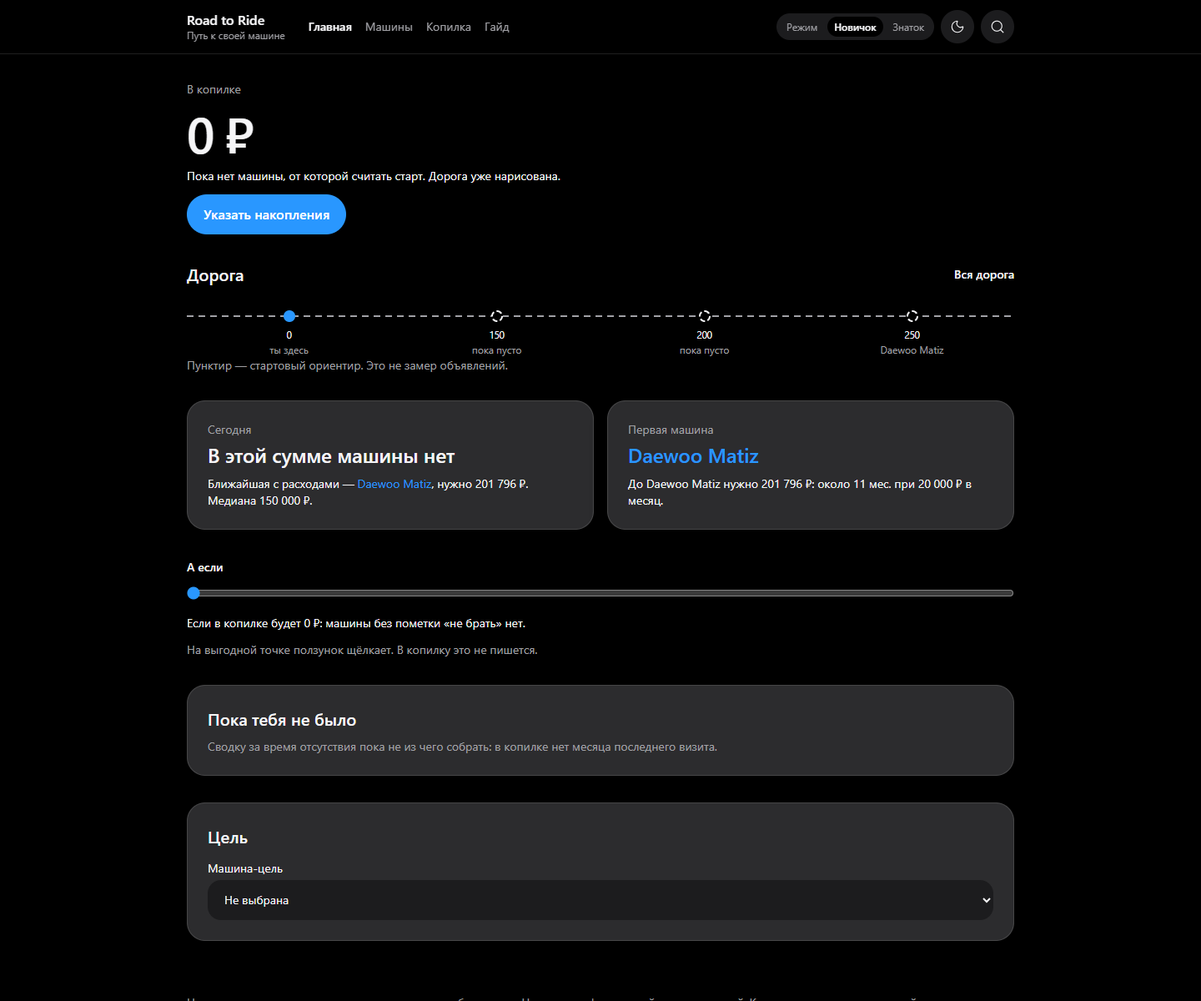
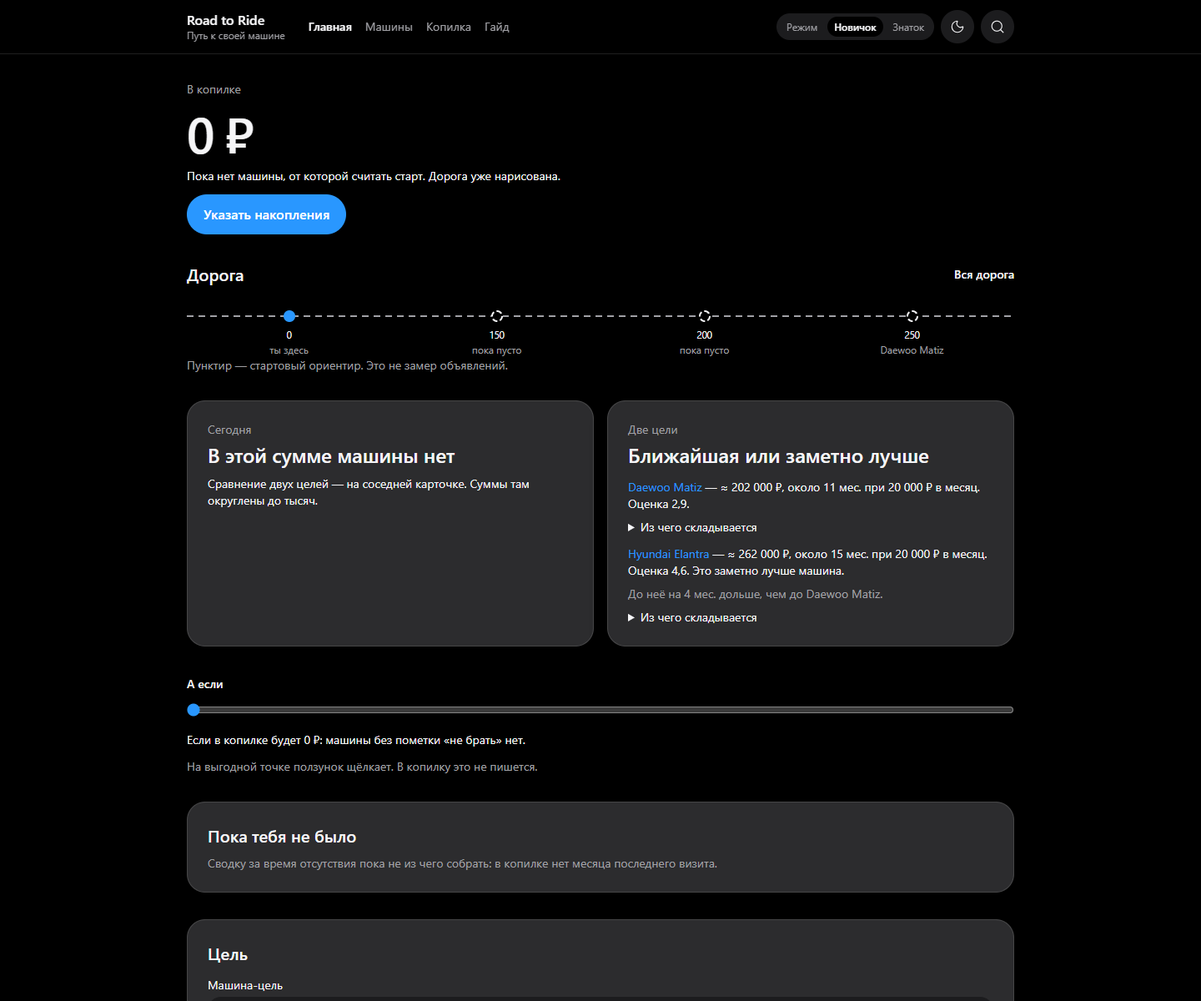
fix(home): две цели на низких суммах
Пустая копилка сравнивает ближайшую машину и ближайшую с оценкой от 4,5. Суммы до машины в карточках округлены до тысяч, точный состав открывается отдельно.

Changed region(s): [[0.1562, 0.4008, 0.8438, 0.8017], [0.1562, 0.8325, 0.8438, 1.0]]

diff --git a/components/domain/road-fork.tsx b/components/domain/road-fork.tsx
@@ -6,16 +6,21 @@ import { Card } from "@/components/ui/card";
 import { scoreText } from "@/lib/cn";
 import { labels } from "@/lib/content";
 import { monthsToGoal } from "@/lib/forecast";
-import { rub } from "@/lib/format";
+import { approxRub, rub } from "@/lib/format";
 import { displayName, type CatalogItem } from "@/lib/market";
+import type { DriverProfile } from "@/lib/meta";
 import { inflationOf } from "@/lib/storage";
 import { TIER_MAX } from "@/lib/tiers";
 import {
   bestSafeAt,
+  DECENT_SCORE,
   familyContribution,
   leftForCar,
+  nextDecentAt,
   nextJumpAfter,
   nextQualityAt,
+  nextWithinReach,
+  priceBreakdown,
   priceStatus,
   purchasePrice,
   roadWindow,
@@ -28,6 +33,30 @@ import { useEffect, useMemo, useRef, useState } from "react";
 function shortAmount(amount: number): string {
   if (amount >= 1_000_000) return "1 млн";
   return String(Math.round(amount / 1000));
+}
+
+function waitLine(months: number | null, monthly: number): string {
+  if (months === null) return "срок появится, когда укажешь взнос в месяц";
+  return `около ${months} мес. при ${rub(monthly)} в месяц`;
+}
+
+function PriceFacts({ item, driver }: { item: CatalogItem; driver: DriverProfile }) {
+  const parts = priceBreakdown(item, driver);
+  const reservePercent = Math.round(parts.reserveRate * 100);
+  return (
+    <details className="mt-2 text-sm">
+      <summary className="cursor-pointer">Из чего складывается</summary>
+      <ul className="mt-2 space-y-1 text-muted">
+        <li>Медиана: {rub(parts.median)}</li>
+        <li>ОСАГО: {rub(parts.osago)}</li>
+        <li>Учёт: {rub(parts.registration)}</li>
+        {parts.diagnostic > 0 ? <li>Диагностическая карта: {rub(parts.diagnostic)}</li> : null}
+        <li>ТО: {rub(parts.service)}</li>
+        <li>Резерв {reservePercent}%: {rub(parts.reserve)}</li>
+        <li>Итого: {rub(parts.total)}</li>
+      </ul>
+    </details>
+  );
 }
 
 export function RoadFork({ items }: { items: CatalogItem[] }) {
@@ -58,7 +87,11 @@ export function RoadFork({ items }: { items: CatalogItem[] }) {
   const laterCar = later === null ? null : bestSafeAt(items, later, driver);
   const months = jump === null ? null : monthsToGoal(amount, data.monthly, jump, inflation);
   const laterMonths = later === null ? null : monthsToGoal(amount, data.monthly, later, inflation);
-  const nearest = [...items].filter((item) => item.median > 0).sort((left, right) => purchasePrice(left, driver) - purchasePrice(right, driver))[0];
+  const nearestAim = nextWithinReach(items, amount, driver);
+  const decentAim = nextDecentAt(items, amount, driver);
+  const showPair = (!today || today.score < DECENT_SCORE) && nearestAim !== null && decentAim !== null && nearestAim.slug !== decentAim.slug;
+  const nearestMonths = nearestAim ? monthsToGoal(amount, data.monthly, purchasePrice(nearestAim, driver), inflation) : null;
+  const decentMonths = decentAim ? monthsToGoal(amount, data.monthly, purchasePrice(decentAim, driver), inflation) : null;
   const window = roadWindow(preview, expanded);
   const posts = [
     ...window.behind.map((post) => ({ amount: post, you: false, tier: true })),
@@ -143,38 +176,52 @@ export function RoadFork({ items }: { items: CatalogItem[] }) {
               <p className="mt-2 text-sm">
                 Оценка {scoreText(today.score)}. {labels.verdict[today.bestGearbox]}.
               </p>
-              <p className="mt-2 text-sm text-muted">Медиана {rub(today.median)}. С расходами {rub(purchasePrice(today, driver))}. {priceStatus(today).join(" · ")}</p>
+              <p className="mt-2 text-sm text-muted">
+                Медиана {rub(today.median)}. С расходами {approxRub(purchasePrice(today, driver))}. {priceStatus(today).join(" · ")}
+              </p>
+              <PriceFacts item={today} driver={driver} />
             </>
           ) : (
             <>
               <h2 className="mt-1 text-xl font-semibold">В этой сумме машины нет</h2>
               <p className="mt-2 text-sm">
-                {nearest ? (
-                  <>
-                    Ближайшая с расходами — <Link href={`/cars/${nearest.slug}`}>{displayName(nearest)}</Link>, нужно {rub(purchasePrice(nearest, driver))}. Медиана {rub(nearest.median)}.
-                  </>
-                ) : (
-                  "В каталоге пока нет машин с ценой."
-                )}
+                {showPair
+                  ? "Сравнение двух целей — на соседней карточке. Суммы там округлены до тысяч."
+                  : nearestAim
+                    ? <>Ближайшая — <Link href={`/cars/${nearestAim.slug}`}>{displayName(nearestAim)}</Link>, {approxRub(purchasePrice(nearestAim, driver))}. Медиана {rub(nearestAim.median)}.</>
+                    : "В каталоге пока нет машин с ценой."}
               </p>
             </>
           )}
         </Card>
         <Card>
-          {jump !== null ? (
+          {showPair && nearestAim && decentAim ? (
             <>
-              <p className="text-sm text-muted">Накопить до {rub(jump)}</p>
+              <p className="text-sm text-muted">Две цели</p>
+              <h2 className="mt-1 text-xl font-semibold">Ближайшая или заметно лучше</h2>
+              <p className="mt-3 text-sm">
+                <Link href={`/cars/${nearestAim.slug}`}>{displayName(nearestAim)}</Link> — {approxRub(purchasePrice(nearestAim, driver))}, {waitLine(nearestMonths, data.monthly)}. Оценка {scoreText(nearestAim.score)}.
+              </p>
+              <PriceFacts item={nearestAim} driver={driver} />
+              <p className="mt-3 text-sm">
+                <Link href={`/cars/${decentAim.slug}`}>{displayName(decentAim)}</Link> — {approxRub(purchasePrice(decentAim, driver))}, {waitLine(decentMonths, data.monthly)}. Оценка {scoreText(decentAim.score)}. Это заметно лучше машина.
+              </p>
+              {nearestMonths !== null && decentMonths !== null && decentMonths > nearestMonths ? (
+                <p className="mt-2 text-sm text-muted">До неё на {decentMonths - nearestMonths} мес. дольше, чем до {displayName(nearestAim)}.</p>
+              ) : null}
+              <PriceFacts item={decentAim} driver={driver} />
+            </>
+          ) : jump !== null ? (
+            <>
+              <p className="text-sm text-muted">Накопить до {approxRub(jump)}</p>
               <h2 className="mt-1 text-xl font-semibold">{jumpCar ? <Link href={`/cars/${jumpCar.slug}`}>{displayName(jumpCar)}</Link> : "На этой отметке"}</h2>
               {jumpCar ? (
                 <p className="mt-2 text-sm">
                   Оценка {scoreText(jumpCar.score)}. {labels.verdict[jumpCar.bestGearbox]}.
                 </p>
               ) : null}
-              <p className="mt-2 text-sm">
-                {months === null
-                  ? "Срок появится, когда укажешь взнос в месяц."
-                  : `Около ${months} мес. при ${rub(data.monthly)} в месяц.`}
-              </p>
+              <p className="mt-2 text-sm">{months === null ? "Срок появится, когда укажешь взнос в месяц." : `Около ${months} мес. при ${rub(data.monthly)} в месяц.`}</p>
+              {jumpCar ? <PriceFacts item={jumpCar} driver={driver} /> : null}
             </>
           ) : (
             <>
@@ -185,7 +232,7 @@ export function RoadFork({ items }: { items: CatalogItem[] }) {
               <p className="mt-2 text-sm">
                 {later !== null && laterCar ? (
                   <>
-                    {today ? <>Лучше этой машины до {rub(later)} не будет. Там {displayName(laterCar)}</> : <>До {displayName(laterCar)} нужно {rub(later)}</>}
+                    {today ? <>Лучше этой машины до {approxRub(later)} не будет. Там {displayName(laterCar)}</> : <>До {displayName(laterCar)} нужно {approxRub(later)}</>}
                     {laterMonths === null
                       ? ". Срок появится, когда укажешь взнос в месяц."
                       : `: около ${laterMonths} мес. при ${rub(data.monthly)} в месяц.`}
@@ -195,6 +242,7 @@ export function RoadFork({ items }: { items: CatalogItem[] }) {
                   "Дальше по каталогу заметно лучше не станет. Можно брать сегодняшнюю."
                 )}
               </p>
+              {laterCar ? <PriceFacts item={laterCar} driver={driver} /> : null}
             </>
           )}
         </Card>

diff --git a/lib/view/market.ts b/lib/view/market.ts
@@ -1,6 +1,6 @@
 import { adviseFor, type AdviceModel } from "../advice";
 import { monthsToGoal } from "../forecast";
-import { DEFAULT_DRIVER, realPrice, type DriverProfile } from "../meta";
+import { DEFAULT_DRIVER, meta, osagoRange, realPrice, type DriverProfile } from "../meta";
 import {
   bestAt,
   sweetSpotAmounts,
@@ -11,6 +11,8 @@ import { nextTierAmount, tierAmounts, tierFloor } from "../tiers";
 
 const SCORE_STEP = 0.5;
 const WAIT_WINDOW = 150_000;
+/** Ниже этой оценки вторая карточка сравнивает две цели, а не одну ближайшую. */
+export const DECENT_SCORE = 4.5;
 const GEARBOX_RANK = { avoid: 1, acceptable: 2, recommended: 3 } as const;
 
 export type SnapKind = "sweet" | "gearbox";
@@ -47,6 +49,63 @@ export function shownSavings(saved: number): number {
 /** Сколько нужно на машину с ОСАГО, учётом, ТО и резервом. Медиана остаётся ценой рынка. */
 export function purchasePrice(item: CatalogItem, driver: DriverProfile = DEFAULT_DRIVER): number {
   return realPrice(item.median, item.hp, driver);
+}
+
+export type PriceBreakdown = {
+  median: number;
+  osago: number;
+  registration: number;
+  diagnostic: number;
+  service: number;
+  reserve: number;
+  reserveRate: number;
+  total: number;
+};
+
+/** Состав realPrice. Сумма строк равна purchasePrice. */
+export function priceBreakdown(item: CatalogItem, driver: DriverProfile = DEFAULT_DRIVER): PriceBreakdown {
+  const reserve = Math.round(item.median * meta.reserveRate);
+  return {
+    median: item.median,
+    osago: osagoRange(item.hp, driver).mid,
+    registration: meta.registrationRub,
+    diagnostic: meta.diagnosticCardRub,
+    service: meta.firstServiceRub,
+    reserve,
+    reserveRate: meta.reserveRate,
+    total: purchasePrice(item, driver),
+  };
+}
+
+function openModels(items: CatalogItem[], driver: DriverProfile): CatalogItem[] {
+  const models = items.map(toAdvice);
+  return items.filter((item, index) => item.median > 0 && !blocked(item, models[index], purchasePrice(item, driver), models));
+}
+
+function soonest(items: CatalogItem[], amount: number, driver: DriverProfile): CatalogItem | null {
+  const ahead = items.filter((item) => purchasePrice(item, driver) > amount);
+  if (!ahead.length) return null;
+  return ahead.sort(
+    (a, b) =>
+      purchasePrice(a, driver) - purchasePrice(b, driver) ||
+      b.score - a.score ||
+      a.median - b.median ||
+      a.slug.localeCompare(b.slug, "ru"),
+  )[0];
+}
+
+/** Ближайшая модель, до которой ещё не хватает, по realPrice. */
+export function nextWithinReach(items: CatalogItem[], amount: number, driver: DriverProfile = DEFAULT_DRIVER): CatalogItem | null {
+  return soonest(openModels(items, driver), amount, driver);
+}
+
+/** Ближайшая модель с оценкой не ниже DECENT_SCORE, по realPrice. */
+export function nextDecentAt(items: CatalogItem[], amount: number, driver: DriverProfile = DEFAULT_DRIVER): CatalogItem | null {
+  return soonest(
+    openModels(items, driver).filter((item) => item.score >= DECENT_SCORE),
+    amount,
+    driver,
+  );
 }
 
 /** Модели, которые можно купить на эту сумму: реальная цена не выше копилки. */

diff --git a/lib/view/market.test.ts b/lib/view/market.test.ts
@@ -2,12 +2,17 @@ import assert from "node:assert/strict";
 import test from "node:test";
 import { catalog } from "../data.ts";
 import { bestAt } from "../market.ts";
+import { roundToThousands } from "../format.ts";
 import { realPrice } from "../meta.ts";
 import { tierFloor } from "../tiers.ts";
 import {
   bestSafeAt,
   catalogBands,
+  DECENT_SCORE,
+  nextDecentAt,
   nextJumpAfter,
+  nextWithinReach,
+  priceBreakdown,
   purchasePrice,
   shownSavings,
 } from "./market.ts";
@@ -77,6 +82,27 @@ test("nextJumpAfter 320000 reaches the real price of the next car", () => {
 
 test("Focus III is not the safe choice where it is affordable", () => {
   assert.notEqual(bestSafeAt(catalog, 700_000)?.slug, "ford-focus-3");
+});
+
+test("at 0 the fork names Matiz and a car scored at least 4.5", () => {
+  const nearest = nextWithinReach(catalog, 0);
+  const decent = nextDecentAt(catalog, 0);
+  assert.equal(nearest?.slug, "daewoo-matiz");
+  assert.ok(decent);
+  assert.ok(decent.score >= DECENT_SCORE);
+  assert.notEqual(decent.slug, "daewoo-matiz");
+  assert.ok(purchasePrice(decent) > purchasePrice(nearest!));
+  assert.equal(DECENT_SCORE, 4.5);
+});
+
+test("a purchase target rounds to thousands and the breakdown sums to the real price", () => {
+  const matiz = catalog.find((item) => item.slug === "daewoo-matiz");
+  assert.ok(matiz);
+  const price = purchasePrice(matiz);
+  assert.equal(roundToThousands(price), 202_000);
+  const parts = priceBreakdown(matiz);
+  assert.equal(parts.median + parts.osago + parts.registration + parts.diagnostic + parts.service + parts.reserve, parts.total);
+  assert.equal(parts.total, price);
 });
 
 test("the Solaris 9.9 fixture still separates bestAt from bestSafeAt", () => {

diff --git a/components/domain/catalog-browser.tsx b/components/domain/catalog-browser.tsx
@@ -8,7 +8,7 @@ import { SegmentedControl } from "@/components/ui/segmented-control";
 import { Skeleton } from "@/components/ui/skeleton";
 import { adviseFor, markBest, trapsFor } from "@/lib/advice";
 import { labels } from "@/lib/content";
-import { rub } from "@/lib/format";
+import { approxRub, rub } from "@/lib/format";
 import { displayName, type CatalogItem } from "@/lib/market";
 import type { TTrap } from "@/lib/schema";
 import { TIER_MAX } from "@/lib/tiers";
@@ -215,7 +215,7 @@ export function CatalogBrowser({
                     ) : null}
                     <p className="mt-2 text-sm text-muted">
                       {rub(item.median)}
-                      {gap > 0 ? ` · ещё ${rub(gap)}` : ""} · {item.medianYear} · {item.medianMileageKm.toLocaleString("ru-RU")} км
+                      {gap > 0 ? ` · ещё ${approxRub(gap)}` : ""} · {item.medianYear} · {item.medianMileageKm.toLocaleString("ru-RU")} км
                     </p>
                     {status.length ? <p className="mt-1 text-sm text-muted">{status.join(" · ")}</p> : null}
                   </li>

diff --git a/components/domain/model-article.tsx b/components/domain/model-article.tsx
@@ -66,6 +66,7 @@ export function ModelArticle({
       </header>
 
       <section className="space-y-3" aria-label="Вердикт">
+        {model.summary ? <p>{model.summary}</p> : null}
         <h2 className="text-lg font-semibold">Коробка</h2>
         <ul className="space-y-2 text-sm">
           {model.gearboxes.map((box) => (
@@ -79,7 +80,6 @@ export function ModelArticle({
           <AdviceMark advice={advice} items={items} open={adviceOpen} onToggle={() => setAdviceOpen((value) => !value)} />
         ) : null}
         <ScorePill score={scoreOf(model)} />
-        <p>{model.summary}</p>
       </section>
 
       <section className="space-y-2">

diff --git a/lib/format.ts b/lib/format.ts
@@ -10,6 +10,15 @@ export function rub(value: number): string {
   return money.format(value);
 }
 
+/** Оценка цены до тысяч: стартовый ориентир не должен выглядеть как замер. */
+export function roundToThousands(value: number): number {
+  return Math.round(value / 1000) * 1000;
+}
+
+export function approxRub(value: number): string {
+  return `≈ ${rub(roundToThousands(value))}`;
+}
+
 export function km(value: number): string {
   return `${kmFormat.format(value)} км`;
 }

diff --git a/docs/design/PROPOSALS.md b/docs/design/PROPOSALS.md
@@ -14,6 +14,37 @@
 
 До этого рентген не делается.
 
+## ОСАГО: свой полис или вписан к родителю
+
+Стартовые расходы съедают заметную часть копилки, и большая доля — полис для водителя 20 лет без стажа. От этого зависит `realPrice`, а с ним и развилка: порог у каждой модели свой, потому что ОСАГО зависит от мощности.
+
+Сейчас `realPrice(median, hp, driver)` складывает медиану, середину вилки ОСАГО, учёт, диагностическую карту, первое ТО и резерв 12%. Вилку считает `osagoRange` по мощности и профилю. Формулу `realPrice` менять не нужно: профиль в неё уже передаётся.
+
+Пользовательского коэффициента не хватит. Коэффициент спрячет скидку и снова покажет ложную точность.
+
+Новый аргумент у `realPrice` тоже не нужен. Не хватает настройки в данных пользователя и одного честного правила для полиса, рядом с `osagoRange` в `lib/meta.ts`.
+
+Правило такое. Если сына вписывают в полис родителя, страховщик берёт самого «дорогого» водителя в списке. Возраст и стаж сына остаются. Экономия возможна на КБМ полиса родителя, а не на том, чтобы подставить возраст родителя вместо возраста сына. Подстановка профиля родителя занизит цену, и сайт снова посоветует машину, на которую полиса не хватит.
+
+Позже, отдельным шагом:
+
+- в данных пользователя режим «свой полис / вписан к родителю» и, для второго режима, возраст и стаж родителя;
+- функция рядом с `osagoRange`: коэффициент возраст/стаж — максимум из двух водителей, КБМ — от полиса;
+- `realPrice` по-прежнему получает уже посчитанную середину вилки через тот же профиль или через эту функцию, без новой формулы цены.
+
+Пока этого правила нет, переключатель в интерфейс не ставить.
+
+## Octavia A5: чего не хватает данным, чтобы медиана не смешала DSG и автомат
+
+На первом экране карточки уже есть фраза из `summary`: брать 1.6 с автоматом Aisin, робот DSG и турбо 1.8 — другие расходы. Коробка DSG DQ200 помечена `avoid`, валидатор отклоняет объявление, если подходящая коробка этого типа только в списке «избегать».
+
+Этого мало для живого сбора:
+
+- в коде мотора написано «1.6 л / 102 л.с.», слов «1.6 MPI» нет, поэтому сборщик не отличит MPI от другого 1.6 того же объёма;
+- у коробок нет `engineCodes`: автомат Aisin не привязан к 1.6, а DSG не привязан к моторам, с которыми он встречается. Объявление 1.8 с типом AT валидатор пропустит;
+- нет `listingRules` вроде «в выборку только 1.6 MPI с автоматом Aisin, DSG не включать»;
+- медиана 660 000 ₽ сейчас стартовый ориентир с пустой выборкой. Она ничего не смешивает, потому что объявлений нет. После сбора без этих полей в неё попадут и 1.8 с «автоматом», и DSG, если в объявлении коробка записана как AT.
+
 ## Этап 3
 
 Полевой режим одной руки, вежливая фраза чтобы уйти и вид для родителей без точной суммы — отдельным заданием, после просмотра главной.

diff --git a/docs/DESIGN_BRIEF.md b/docs/DESIGN_BRIEF.md
@@ -26,6 +26,8 @@
   - `snapPoints` — точки щелчка: выгодная точка или место, где рекомендация перестала быть `avoid`.
   - `leftForCar` — сумма минус разница между `realPrice` и медианой.
   - `familyContribution` — взносы, у которых `by` не `me`.
+  - `DECENT_SCORE` — 4,5. Если доступной машины нет или её оценка ниже, вторая карточка показывает две цели: `nextWithinReach` и `nextDecentAt`. Обе по `realPrice`, срок — `monthsToGoal`.
+  - В карточках сумма до машины округляется до тысяч. Точный состав (`priceBreakdown`: медиана, ОСАГО, учёт, ТО, резерв) открывается отдельно. Отметки дороги и так в тысячах. Шапка копилки остаётся точной.
 
 Главная, сравнение уровней и `/tiers/[amount]` берут машину через `bestSafeAt`. `lib/score.ts`, `lib/schema.ts` и `data/` этот этап не меняет.
 
